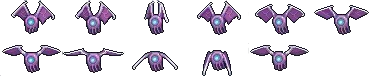
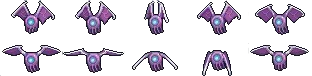
changing alien_bat

diff --git a/src/enemies.py b/src/enemies.py
@@ -537,7 +537,7 @@ class AlienBat(Enemy):
         """
         self.group = group
         self.sprite_sheet = image_dict["ALIENBAT"]
-        self.frames_x = 6
+        self.frames_x = 5
         self.frames_y = 2
         self.health = 300
         self.speed = 5
